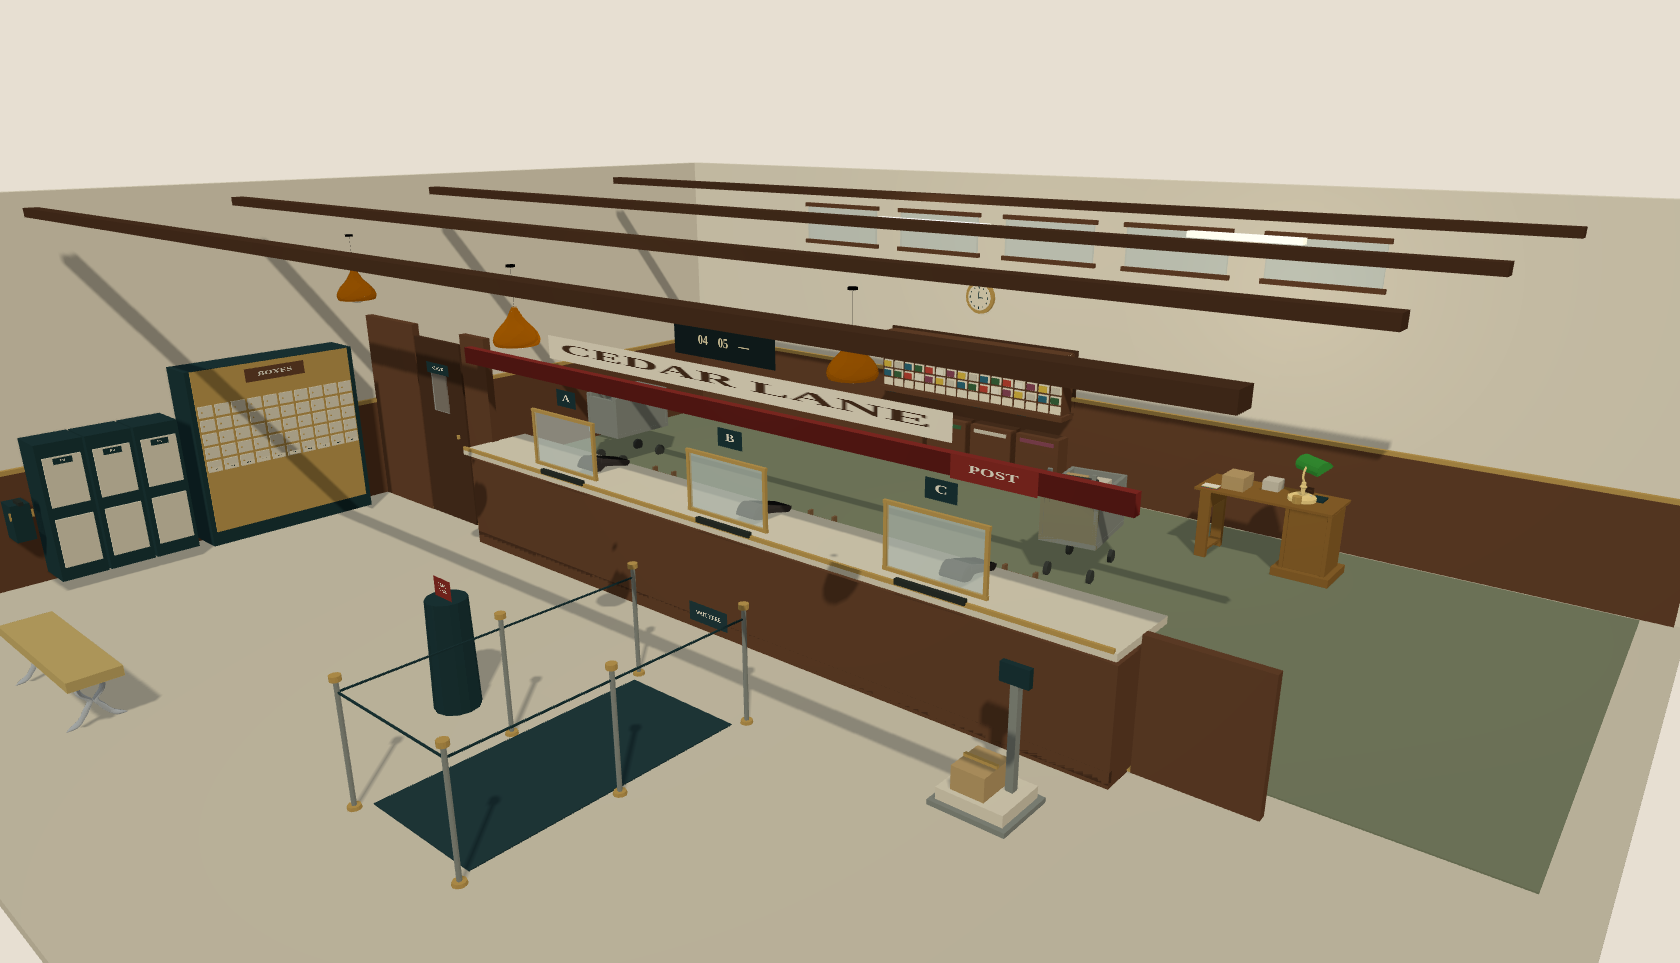
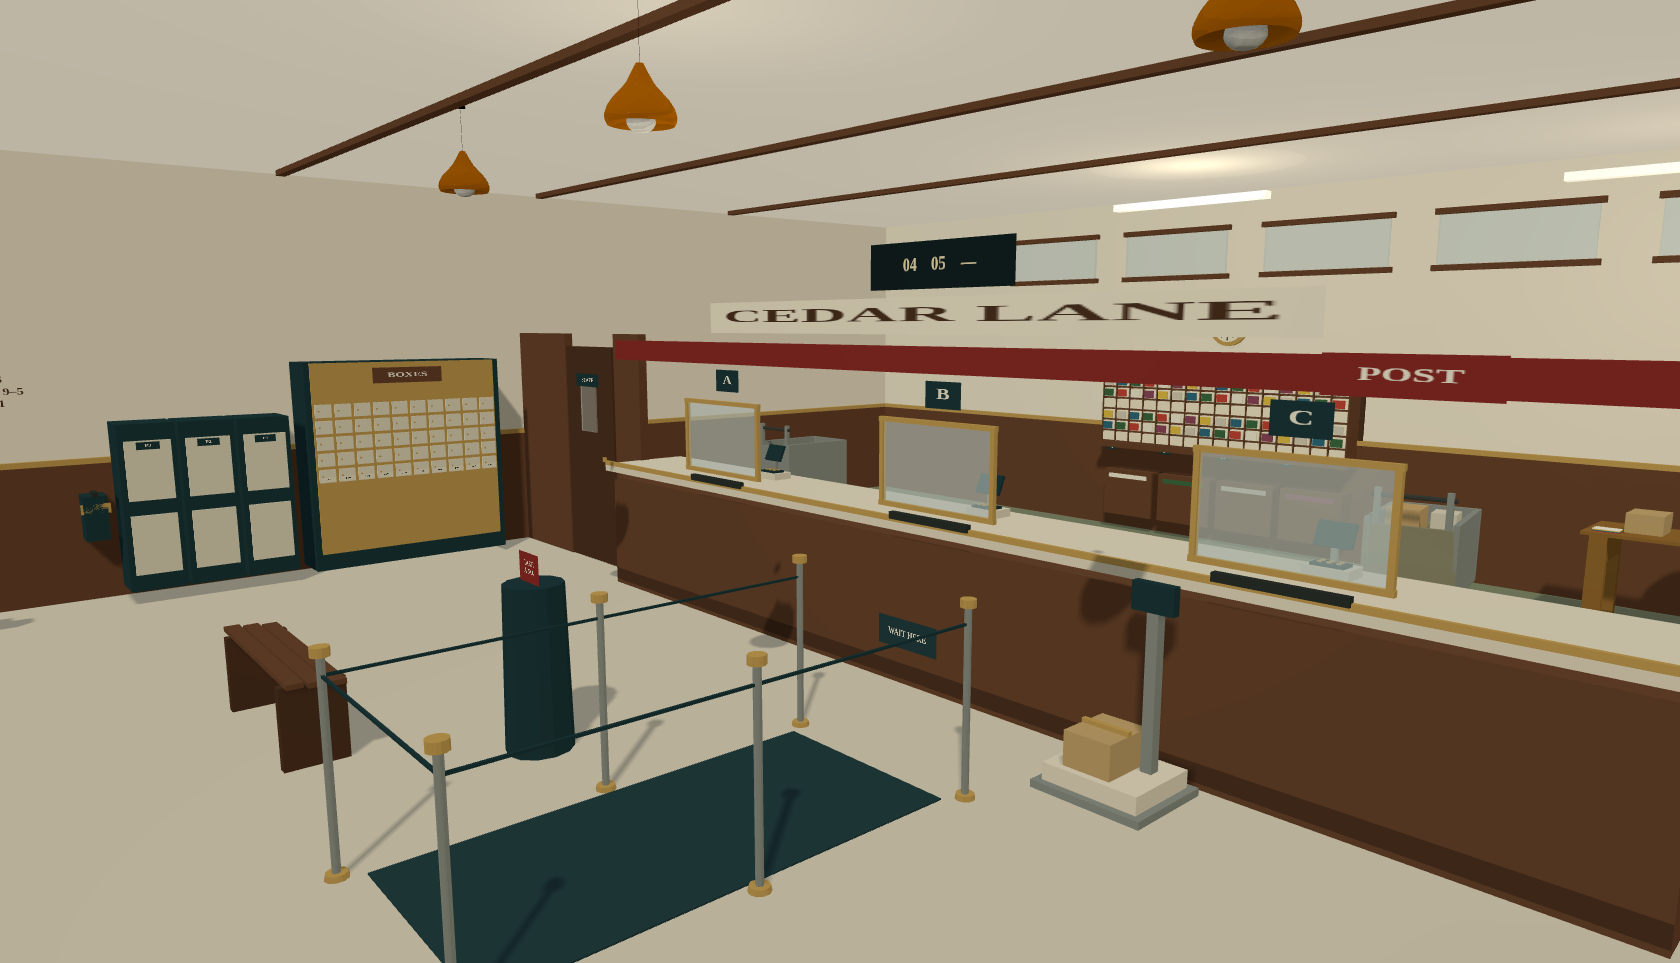
Close the Cedar Lane roof and replace the leftover seats.
A soffit and fascia cover the open cut, and the beams no longer stripe the walls. Clerks sit on work stools, the lobby seat is a slat bench, and each window has a register with a tilted screen. The establishing camera sits under the deck so the boxes, queue, windows, and scale fill the frame.

diff --git a/experiments/indoor30-20261113/post-office/post-office.js b/experiments/indoor30-20261113/post-office/post-office.js
@@ -2,7 +2,7 @@ import * as THREE from 'three';
 import { boot, toon, addBox, addCyl, labelTexture } from './scene_lib.js';
 
 // Cedar Lane branch. Public lobby is +Z. Sorting hall is -Z.
-// Clerks sit on the staff side and face +Z (dining-chair yaw 0).
+// Clerks use work stools on the staff side; the open side of each stool faces +Z.
 // The counter, door, and floor change are the staff/public boundary.
 // PO boxes are letter-module doors on the public left wall.
 // Pigeonholes, trolleys, and the packing desk are the visible workroom.
@@ -83,8 +83,19 @@ function makeShell(layout) {
     name: 'staff-floor', cast: false,
   });
 
-  for (const z of [3.15, 1.35, -0.85, -3.55]) {
-    addBox(g, W - 1.6, 0.08, 0.12, m.woodDark, -0.35, H - 0.16, z);
+  const deckT = 0.14;
+  const overhangX = 2.8;
+  const overhangZ = 2.4;
+  const deckW = W + overhangX;
+  const deckD = D + overhangZ;
+  const deckX = overhangX / 2;
+  const deckZ = overhangZ / 2;
+  const soffit = toon(s.ceilingColor, { emissive: 0xf4ecdf, emissiveIntensity: 0.32 });
+  addBox(g, deckW, deckT, deckD, soffit, deckX, H - deckT / 2, deckZ, { cast: false, name: 'roof-deck' });
+  addBox(g, 0.14, 0.32, deckD, m.woodDark, deckX + deckW / 2 - 0.07, H - 0.24, deckZ, { cast: false, name: 'roof-fascia-x' });
+  addBox(g, deckW, 0.32, 0.14, m.woodDark, deckX, H - 0.24, deckZ + deckD / 2 - 0.07, { cast: false, name: 'roof-fascia-z' });
+  for (const z of [2.2, -0.15, -2.5]) {
+    addBox(g, W - 1.2, 0.045, 0.07, m.wood, -0.2, H - deckT - 0.035, z, { cast: false });
   }
 
   const clerestoryY = H - 0.72;
@@ -95,6 +106,61 @@ function makeShell(layout) {
     addBox(g, 1.22, 0.05, 0.05, m.wood, x, clerestoryY - 0.24, -D / 2 + 0.13, { cast: false });
   }
   return g;
+}
+
+function addStool(g, spec, m) {
+  const grp = new THREE.Group();
+  grp.name = spec.id;
+  const seat = 0.64;
+  addBox(grp, 0.36, 0.045, 0.34, m.wood, 0, seat, 0.01);
+  addBox(grp, 0.32, 0.16, 0.028, m.woodDark, 0, seat + 0.08, -0.15);
+  for (const [x, z] of [[-0.13, -0.1], [0.13, -0.1], [-0.13, 0.12], [0.13, 0.12]]) {
+    addCyl(grp, 0.02, 0.022, seat - 0.02, m.steel, x, (seat - 0.02) / 2, z, 8);
+  }
+  addCyl(grp, 0.012, 0.012, 0.3, m.steel, 0, 0.28, 0.01, 8, { rotZ: Math.PI / 2 });
+  grp.position.set(spec.x, 0, spec.z);
+  g.add(grp);
+}
+
+function addWaitBench(g, spec, m) {
+  const grp = new THREE.Group();
+  grp.name = 'wait-bench';
+  const y = 0.44;
+  for (let i = 0; i < 3; i++) {
+    addBox(grp, spec.length, 0.028, 0.08, m.wood, 0, y + i * 0.012, -0.1 + i * 0.1);
+  }
+  for (const x of [-spec.length / 2 + 0.12, spec.length / 2 - 0.12]) {
+    addBox(grp, 0.06, y, 0.32, m.woodDark, x, y / 2, 0);
+  }
+  grp.position.set(spec.x, 0, spec.z);
+  g.add(grp);
+}
+
+function addTerminal(g, spec, m) {
+  const grp = new THREE.Group();
+  grp.name = spec.id;
+  addBox(grp, 0.22, 0.05, 0.16, m.top, 0, 0.03, 0);
+  addBox(grp, 0.16, 0.018, 0.1, m.ink, 0, 0.06, 0.015);
+  for (let row = 0; row < 2; row++) {
+    for (let col = 0; col < 3; col++) {
+      addBox(grp, 0.02, 0.008, 0.018, m.brass, -0.045 + col * 0.045, 0.074, -0.005 + row * 0.038, { cast: false });
+    }
+  }
+  addBox(grp, 0.028, 0.07, 0.028, m.steel, 0, 0.1, -0.02);
+  const screen = new THREE.Group();
+  addBox(screen, 0.18, 0.125, 0.02, m.ink, 0, 0, 0);
+  addBox(screen, 0.145, 0.092, 0.008, toon('#d7f0e4', { emissive: 0xd7f0e4, emissiveIntensity: 0.7 }), 0, 0.004, -0.012, { cast: false });
+  screen.position.set(0, 0.2, -0.015);
+  screen.rotation.x = -0.42;
+  grp.add(screen);
+  grp.position.set(spec.x, spec.y, spec.z);
+  g.add(grp);
+}
+
+function addMailSack(g, x, z, m, tint) {
+  addBox(g, 0.46, 0.38, 0.36, m.canvas, x, 0.2, z, { name: 'mail-sack' });
+  addBox(g, 0.22, 0.1, 0.16, m.canvas, x, 0.4, z);
+  addBox(g, 0.2, 0.016, 0.14, toon(tint), x, 0.32, z + 0.12, { cast: false });
 }
 
 function addCounter(g, layout, m) {
@@ -108,9 +174,9 @@ function addCounter(g, layout, m) {
   addBox(grp, span, 0.035, 0.025, m.brass, cx, c.top + 0.012, c.z + c.topDepth / 2);
   addBox(grp, span, 0.1, 0.04, m.woodDark, cx, 0.08, c.z + c.depth / 2 - 0.02);
 
-  const clerks = layout.instances.filter((i) => i.id.startsWith('clerk_'));
+  const clerks = layout.build.clerks;
   clerks.forEach((clerk, n) => {
-    const x = clerk.position[0];
+    const x = clerk.x;
     addBox(grp, 0.86, 0.5, 0.025, m.glass, x, 1.4, c.z + c.depth / 2 + 0.02, { cast: false, name: `window-${n}` });
     addBox(grp, 0.92, 0.03, 0.03, m.brass, x, 1.66, c.z + c.depth / 2 + 0.03, { cast: false });
     addBox(grp, 0.92, 0.03, 0.03, m.brass, x, 1.14, c.z + c.depth / 2 + 0.03, { cast: false });
@@ -121,7 +187,7 @@ function addCounter(g, layout, m) {
     num.name = `wicket-${n}`;
   });
 
-  addBox(grp, span, 0.16, 0.08, m.band, cx, 2.02, c.z + 0.22);
+  addBox(grp, span, 0.16, 0.08, m.band, cx, 2.02, c.z + 0.22, { cast: false });
   plaque(grp, span * 0.62, 0.22, 'CEDAR LANE', cx, 2.28, c.z + 0.24, 0, '#f4ecdf', '#4e3424', { px: 36, name: 'wordmark' });
   plaque(grp, 0.7, 0.18, 'POST', cx + span * 0.36, 2.02, c.z + 0.28, 0, '#8d2e2a', '#f6f1e8', { px: 28, tw: 128, th: 64 });
 
@@ -382,6 +448,11 @@ function makeProcedural(layout) {
   addQueue(g, layout, m);
   addPacking(g, layout, m);
   addLobbyFit(g, layout, m);
+  for (const clerk of layout.build.clerks) addStool(g, clerk, m);
+  addWaitBench(g, layout.build.waitBench, m);
+  for (const term of layout.build.terminals) addTerminal(g, term, m);
+  addMailSack(g, -1.55, -2.35, m, MAIL[0]);
+  addMailSack(g, 0.15, -2.85, m, MAIL[1]);
   return g;
 }
 

diff --git a/experiments/indoor30-20261113/post-office/SPEC.md b/experiments/indoor30-20261113/post-office/SPEC.md
@@ -6,24 +6,23 @@ Palette: ivory plaster, oak wainscot, brass, a civic red band, ink-green box fra
 
 ## Zones
 
-**Public lobby** (+Z, open cut). Queue lane 1.22 m wide feeds three windows. A backless bench sits clear of the box bay. PO-box doors are 0.148 × 0.128, ten columns by five rows, with three parcel lockers at the end of the run. The floor parcel scale is a 0.52 × 0.44 platform, not a kitchen scale.
+**Public lobby** (+Z, open cut). A roof deck and fascia close the cut; the soffit does not cast. Queue lane 1.22 m wide feeds three windows. A slat bench sits clear of the box bay and the queue. PO-box doors are 0.148 × 0.128, ten columns by five rows, with three parcel lockers at the end of the run. The floor parcel scale is a 0.52 × 0.44 platform, not a kitchen scale.
 
-**Boundary.** Counter top at 1.05, base depth 0.62, top depth 0.76. Glass screens, pass slots, and POS terminals (0.15 tall) sit on the staff half of the top. A latched staff door closes the left end. A short return closes the right end. Brass strip and the floor colour change mark the line.
+**Boundary.** Counter top at 1.05, base depth 0.62, top depth 0.76. Glass screens, pass slots, and a register at each window sit on the staff half of the top. Each register is a keypad deck and a tilted screen facing the clerk. A latched staff door closes the left end. A short return closes the right end. Brass strip and the floor colour change mark the line.
 
-**Sorting hall** (−Z). Dining chairs yaw 0 face +Z, and their fronts stay behind the counter top. Sixteen by six pigeonholes, cells 0.15 × 0.105 × 0.25, sit on the back wall above a sorting ledge and four flats bins. A canvas trolley and a wire trolley park off the clerk path (more than 1.15 m from each chair). The packing desk is the study-desk bake, long axis turned onto world X, with tape, a date stamp, and letters. It does not intersect the letter case.
+**Sorting hall** (−Z). Work stools face +Z, and the front of each seat stays behind the counter top. A low rail marks the back of the stool. Sixteen by six pigeonholes, cells 0.15 × 0.105 × 0.25, sit on the back wall above a sorting ledge and four flats bins. A canvas trolley and a wire trolley park off the clerk path (more than 1.15 m from each stool). The packing desk is the study-desk bake, long axis turned onto world X, with tape, a date stamp, and letters. It does not intersect the letter case.
 
 ## Assets
 
 | kind | path | target height | axis |
 | --- | --- | --- | --- |
-| dining_chair | library `5e1f7a56da4a` | 0.86 | faces local +Z |
-| museum_bench | museum `0025f9484fc6` | 0.46 | long on local Z |
 | study_desk | library `630f6d76cbcd` | 0.76 | long on local Z, pedestal at +Z |
 | library_lamp | library `06accd4e0351` | 0.42 | on the packing top |
-| pendant_lamp | cafe `1b528c6ab04e` | 0.52 | hung from the beam line |
-| pos_terminal | cafe `91c277a25bc3` | 0.15 | yaw π turns the screen toward the clerk |
+| pendant_lamp | cafe `1b528c6ab04e` | 0.52 | hung under the soffit |
 | flowerpot | cafe `4a270f247734` | 0.28 | one plant by the entry |
+
+Stools, the lobby bench, and the three registers are original meshes. The roof deck, fascia, and the shallow soffit beams do not cast, so wall shadows stay soft.
 
 ## Cameras
 
-Default stands outside the open corner and looks across the queue to the windows and the letter case. Corner drops lower along the counter so the clerks’ fronts read. Detail is inside the hall, aimed at the pigeonholes, the canvas trolley, and the packing desk.
+Default stands under the roof, close enough that the boxes, queue, windows, and scale fill the frame, and still sees the letter case over the glass. Corner is on the staff side of the counter so the stool fronts and the register screens read. Detail is inside the hall, aimed at the pigeonholes, the canvas trolley, and the packing desk.

diff --git a/experiments/indoor30-20261113/post-office/ATTRIBUTIONS.md b/experiments/indoor30-20261113/post-office/ATTRIBUTIONS.md
@@ -1,15 +1,12 @@
 # Attributions
 
-Procedural architecture is original to this scene: shell, counter, glass screens, staff door, queue, PO boxes, pigeonholes, parcel scale, trolleys, signage, and packing clutter.
+Procedural architecture is original to this scene: shell, roof deck, counter, glass screens, staff door, queue, PO boxes, pigeonholes, parcel scale, trolleys, work stools, lobby bench, registers, signage, and packing clutter.
 
 Reused Sandflow / sand3d-objaverse bakes, CC-BY-4.0, by relative path. They are not copied into this folder.
 
-- **dining_chair** (`objaverse-5e1f7a56da4a4dab8ad64efd46ed9d9f`) — "Wooden Dining Chair" by vikki0612, CC-BY-4.0 — `library/assets/dining_chair__5e1f7a56da4a.glb`
-- **museum_bench** (`objaverse-0025f9484fc64af29f59cf11a8beced7`) — "Bench" by RookeyJerry, CC-BY-4.0 — `museum/assets/museum_bench__0025f9484fc6.glb`
 - **study_desk** (`objaverse-630f6d76cbcd49cbb1d8ce7fe4e41f27`) — "Study Table for any student room" by athgames, CC-BY-4.0 — `library/assets/study_desk__630f6d76cbcd.glb`
 - **library_lamp** (`objaverse-06accd4e0351480e8c4eb2f28fadaa35`) — "Library Desk Lamp" by oriolescolarcano, CC-BY-4.0 — `library/assets/library_lamp__06accd4e0351.glb`
 - **pendant_lamp** (`pendant_lamp__1b528c6ab04e.glb`) — "Modern ceiling lamp" by krolzuzannapl, https://sketchfab.com/3d-models/1b528c6ab04e42f990105db142cd71bd, CC-BY-4.0 — `cafe/assets/pendant_lamp__1b528c6ab04e.glb`
-- **pos_terminal** (`pos_terminal__91c277a25bc3.glb`) — "POS terminal" by Vladyslav.Yarovyi, https://sketchfab.com/3d-models/91c277a25bc34c5bbd080cd1e74161cb, CC-BY-4.0 — `cafe/assets/pos_terminal__91c277a25bc3.glb`
 - **flowerpot** (`flowerpot__4a270f247734.glb`) — "Flowerpot" by thespaceman, https://sketchfab.com/3d-models/4a270f2477344b55b359e2913f5530f2, CC-BY-4.0 — `cafe/assets/flowerpot__4a270f247734.glb`
 
 Three.js r170, OrbitControls, and GLTFLoader load from `museum/vendor/`. No CDN.

diff --git a/experiments/indoor30-20261113/post-office/refs/GAP.md b/experiments/indoor30-20261113/post-office/refs/GAP.md
@@ -10,11 +10,12 @@ Hugging Face `Sandflow/sand3d-objaverse`, dataset viewer search:
 - "platform scale" hits a kitchen scale (`objaverse-deee2ca3da`, "Kitchen Scales" by frezer2011) plus unrelated ships. A kitchen scale brought up to parcel size is the failure the brief rules out. The floor scale here is built at 0.52 × 0.44 m.
 - "Mail Cart" by MrTheFly (`objaverse-c39d0d6a2fa3430bbbe3e915e639bf63`, entry `trolley`) is the right object class. `sand3d` 1.6 does not install on this machine's Python 3.12 (it requires 3.11 or 3.13, plus `bpy`), so that program was not baked. The two trolleys are original meshes at hamper size (0.58 × 0.92 m bed).
 - Shopping trolleys, hotdog carts, and the cafe bar counter were rejected. The bar bake is an L-shaped return about 1.8 × 0.89 × 0.40 m; raising it to a 1.05 m counter makes the top more than 2 m deep.
-- Office-chair hits exist. The wood dining chair already baked in `library/` is the clerk seat, yaw 0 toward the lobby.
+- Office-chair hits exist. The baked dining chair reads as a dining chair at the counter, and the museum bench reads as a gallery seat. Both were set aside. The clerks use a square work stool with a low rail, and the lobby seat is a slat bench. Neither is a catalog GLB.
+- The cafe POS terminal (`pos_terminal__91c277a25bc3`) stays a black lump from the staff side of the counter. No other register bake is in the shared catalog, so each window uses an original keypad deck and a tilted screen. That GLB is not referenced.
 
 ## Selected bakes
 
-Chair, bench, study desk, desk lamp, pendant, POS terminal, and one flowerpot. All are existing root GLBs with no embedded images, referenced by relative path. See `ATTRIBUTIONS.md`.
+Study desk, desk lamp, pendant, and one flowerpot. All are existing root GLBs with no embedded images, referenced by relative path. See `ATTRIBUTIONS.md`.
 
 ## Still open
 
